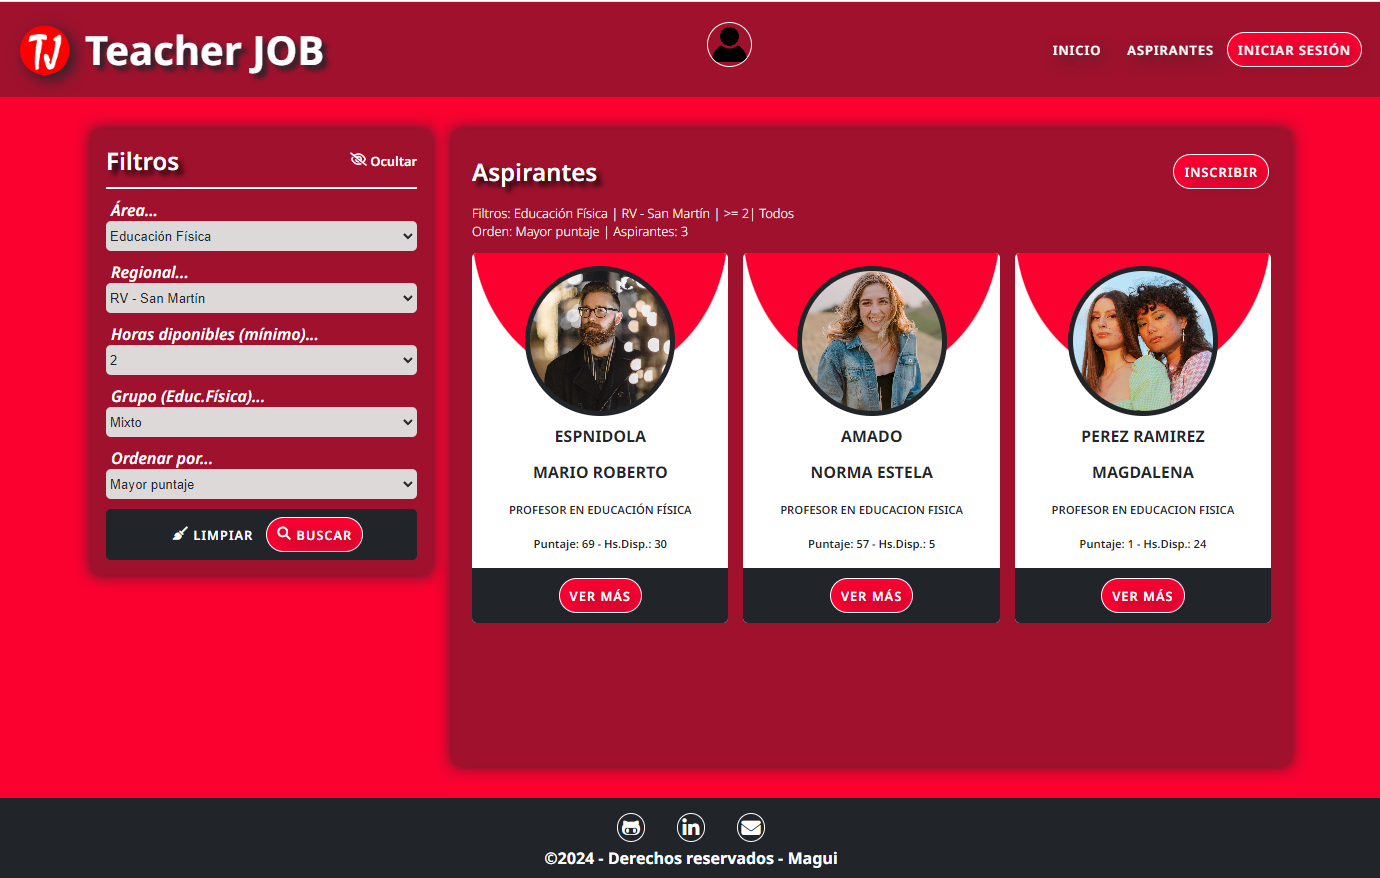
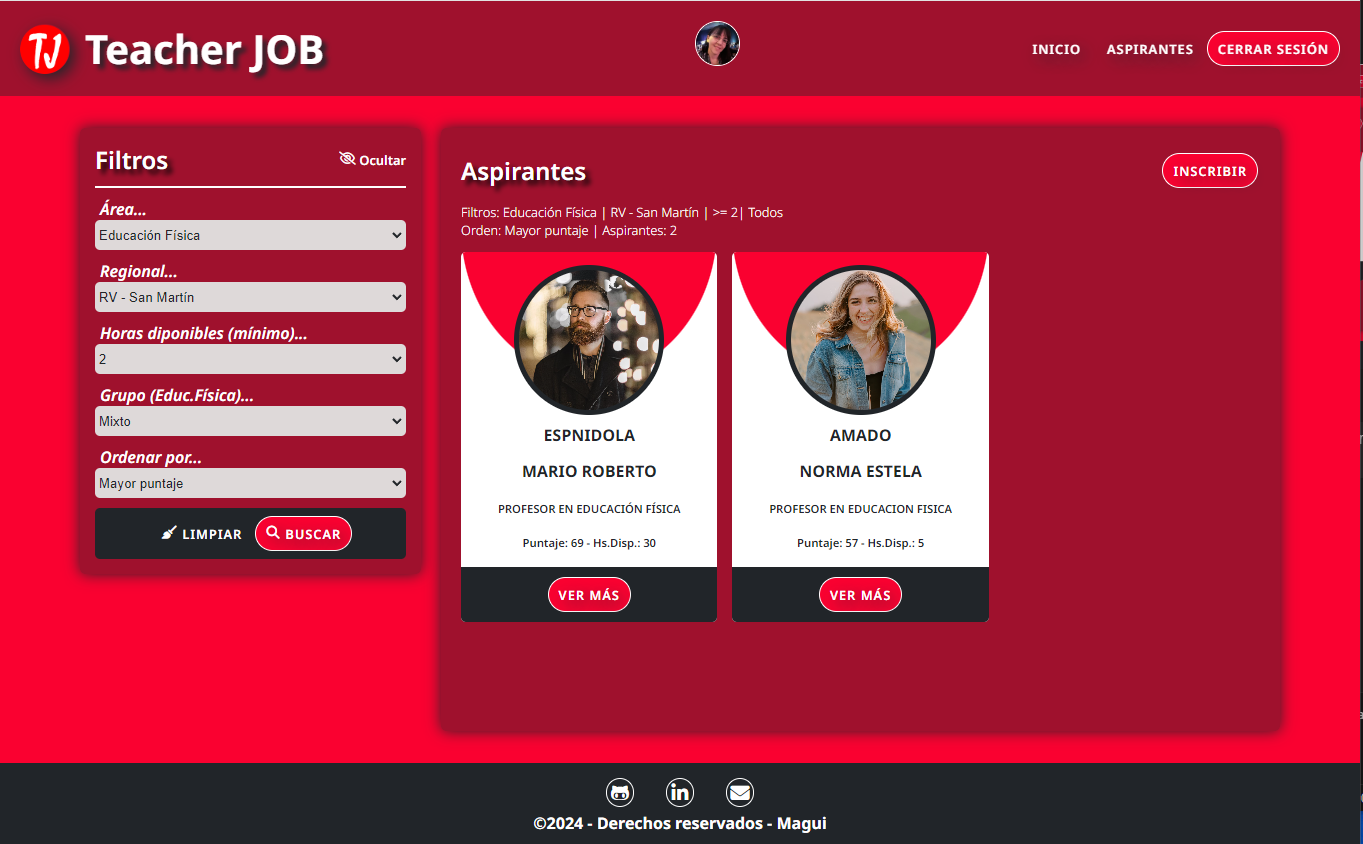
Readme: Primera parte.

Changed region(s): [[0.0, 0.0, 1.0, 0.9858], [0.9861, 0.955, 1.0, 1.0]]

diff --git a/README.md b/README.md
@@ -1,74 +1,231 @@
 <!-- ===========================================================
-                            PRESENTACIÓN 
+                            PRESENTACIÓN
      =========================================================== -->
 
 <p align="center">
-   <img src="imgReadme/tj_br_icon.png" width="100px" alt-text="Título: Teacher JOB">
+   <img src="imgReadme/portadaReadme.png" width="900px" alt-text="Teacher JOB">
 </p>
 
-***
+---
 
 <div align="center">
 
 [![TeacherJOB - link](https://img.shields.io/static/v1?label=teacher+JOB&message=link&color=yellow&logo=EA4335&logoColor=yellow)](https://maguibrollo.github.io/ADA_TeacherJob_mod04_tf/ "Visita la App: Teacher JOB")
-[![GitHub tag](https://img.shields.io/github/tag/MaguiBrollo/ADA_TeacherJob_mod04_tf?include_prereleases=&sort=semver&color=yellow)](https://github.com/MaguiBrollo/ADA_TeacherJob_mod04_tf/releases/ "Versión")
+
+![GitHub Tag](https://img.shields.io/github/v/tag/MaguiBrollo/https%3A%2F%2Fgithub.com%2FMaguiBrollo%2FADA_TeacherJob_mod04_tf)
 
 </div>
 
+---
 
-***
+## Tabla de Contenidos:
 
- ## Tabla de Contenidos:
- 
 - [Teacher JOB](#teacher-job)
 - [Tecnologías](#tecnologías)
-- [Construcción](#construcción)
-- [Menús](#menus)
+- [Menús](#menús)
 - [Mobile](#mobile)
 - [Contáctame](#contáctame)
 
 ---
+
 <br>
 <!-- ==================================================
                          CONTENIDO 
      ================================================== -->
 
-## *Teacher JOB*
+## _Teacher JOB_
 
 [:top:](#tabla-de-contenidos) <br>
 
-> Las aplicaciones web, comúnmente conocidas como apps, se han convertido en una parte esencial de nuestra vida cotidiana. Desde simplificar tareas diarias hasta ofrecer entretenimiento. 
+> Las aplicaciones web, comúnmente conocidas como apps, se han convertido en una parte esencial de nuestra vida cotidiana. Las apps se han consolidado como nuestras aliadas, simplificándonos tareas diarias complejas, como otras no tan complejas como, por ejemplo la búsqueda de empleo. <br> > `Teacher JOB` constituye una herramienta ideal para cruzar de forma efectiva profesores que buscan horas cátedras donde desempeñarse, e instituciones educativas que las ofrecen. Se trata de un espacio en el cual se inscriben a profesores con sus datos más relevantes y los directivos de instituciones pueden consultar esos datos para luego contactar a los profesores.
 
 <p align="center" >
-   <img src="imgReadme/a ppal.png" width="600px" alt-text="Presentación">
+   <img src="imgReadme/a ppal.png" width="500px" alt-text="Presentación">
 </p>
 
-El `Generador de Memes`, fue diseñado de tal manera que puede ser utilizado en diferentes dispositivos, lo que implica un correcto diseño responsive. 
+La aplicación `Teacher JOB`, fue diseñado de tal manera que puede ser utilizado en diferentes dispositivos, lo que implica un correcto diseño responsive.
 
 <p align="center" >
-   <img src="img/aTodos.png" width="600px" alt-text="Presentación">
+   <img src="imgReadme/responsive.png" width="400px" alt-text="Responsive">
 </p>
 
 <br>
 
-Fue desarrollado como Trabajo Final del "Módulo 4 - JavaScript", de la capacitación de `"Desarrollo Frontend"` dictado por [ADA ITW](https://www.linkedin.com/school/ada-itw/), y se encuentra incluido en mi `Portfolio Personal`, de tal manera de reflejar el grado de avance, apropiación y uso de los conocimiento adquiridos y asimilados durante la capacitación.
+Teacher JOB es una app desarrollada como Trabajo Final del "Módulo 4 - Aisncronismo", de la capacitación de `"Desarrollo Frontend"` dictado por [ADA ITW](https://www.linkedin.com/school/ada-itw/), y se encuentra incluido en mi `Portfolio Personal`, de tal manera de reflejar el grado de avance, apropiación y uso de los conocimiento adquiridos y asimilados durante la capacitación.
 
 > [!NOTE]
 > Visite mi portafolio personal: [PORTFOLIO](https://maguibrollo.github.io/ADA_Portafolio_mod01_tf/).
 
-
 <br>
 
-## *Tecnologías*
+## _Tecnologías_
+
 [:top:](#tabla-de-contenidos) <br>
-EL Generador de Memes fue desarrollado utilizando las siguientes tecnologías:  
+Teacher JOB fue se desarrolló utilizando las siguientes tecnologías:
 
 <div align="center">
 
-|  ![HTML5](https://img.shields.io/badge/-HTML5-333333?style=flat&logo=HTML5) |   ![SASS]() |  ![JavaScript](https://img.shields.io/badge/-JavaScript-333333?style=flat&logo=javascript)|  
-| :---: | :---: | :---: |
-|Lenguaje de marcado de hipertexto. Consiste en marcas basado en etiquetas que otorgan la estructura básica de la app.|Sass es un procesador CSS. Permite generar, de manera automática, hojas de estilo, con características que no tiene CSS, y que son propias de los lenguajes de programación. | Lenguaje de programación. Otorga interactividad a las distintas secciones que conforman la app.|
+| [![HTML5](https://img.shields.io/static/v1?label=&message=HTML5&color=%23F8F9FA&logo=html5&logoColor=%23E54C21)](https://) |                           [![Sass](https://img.shields.io/static/v1?label=&message=Sass&color=%23F8F9FA&logo=Sass&logoColor=%23CF649A)](https://)                            | [![JavaScript](https://img.shields.io/static/v1?label=&message=JavaScript&color=%23F8F9FA&logo=javascript&logoColor=yellow)](https://) |
+| :------------------------------------------------------------------------------------------------------------------------: | :--------------------------------------------------------------------------------------------------------------------------------------------------------------------------: | :------------------------------------------------------------------------------------------------------------------------------------: |
+|   Lenguaje de marcado de hipertexto. Consiste en marcas basado en etiquetas que otorgan la estructura básica de la app.    | Sass es un procesador CSS. Permite generar, de manera automática, hojas de estilo, con características que no tiene CSS, y que son propias de los lenguajes de programación. |            Javascript es un lenguaje de programación. Otorga interactividad a las distintas secciones que conforman la app.            |
+
+</div>
 
 <br>
 
+## _Menús_
+
+[:top:](#tabla-de-contenidos) <br>
+
+La aplicación cuenta con los siguientes menúes: [Inicio](#inicio), [Aspirantes](#aspirantes) e [Iniciar sesión](#iniciar-sesión).
+
+### _Inicio:_
+
+---
+
+[:top:](#menús) <br>
+Al iniciar la aplicación, se visualiza un mensaje de bienvenida con un carussel de imágenes alusivas.
+
+<br>
+<p align="center" >
+   <img src="imgReadme/carrusel.gif" width="400px" alt-text="Carrusel">
+</p>
+
+### _Aspirantes:_
+
+---
+
+[:top:](#menús) <br>
+Este menú es el corazón de la aplicación, ya que presenta todas las alternativas de búsqueda de profesores, inscripción, consulta, edición y eliminación de inscripciones. <br>
+En primer lugar, al acceder a este menú se puede ver el listado completo de Aspirantes inscriptos, ordenados por mayor puntaje.
+
+<p align="center" >
+   <img src="imgReadme/aspirantesTodos.png" width="400px" alt-text="Spinner">
+</p>
+
+<br>
+
+En la **sección `Filtros`** los directivos de instituciones pueden filtrar la búsqueda por Área, Regional, Horas, Grupo (para Educación Física) y el Orden por puntaje. Esta sección puede ocultarse y volver a visualizarse. <br>
+Luego de seleccionar las opciones de filtrado se deberá selecionar "Buscar", para dar inicio al proceso de filtrado. Al finalizar el proceso se puede observar, además de las fichas, los datos del filtrado, orden y cantidad. El resultado del filtro de visualiza en la sección Aspirantes.
+
+<br>
+<p align="center" >
+   <img src="imgReadme/aspirantesFiltro.png" width="400px" alt-text="Spinner">
+</p>
+
+<br>
+
+> [!NOTE]
+> Al realizarse una búsqueda o solicitud de visualización, se mostrará un spinner que informa que la app está realizando la tarea solicitada.
+
+<p align="center" >
+   <img src="imgReadme/AspirantesSpinner.png" width="300px" alt-text="Spinner">
+</p>
+
+<br>
+
+En la **sección `Aspirantes`** se visualiza el listado de aspirantes correspondiente al filtro aplicado, además del mensaje que informa el filtro, el orden y el total de aspirantes listados.
+<br>
+
+<p align="center" >
+   <img src="imgReadme/aspirantesTodos.png" width="400px" alt-text="Filtros todos">
+</p>
+
+`Inscripción`: En esta sección también es posible, si se ha iniciado sesión, realizar la inscripción de un nuevo aspirante, completando todos los datos, ya que todos los datos son obligatorios.
+<br>
+
+<p align="center" >
+   <img src="imgReadme/inscripcionNueva.png" width="400px" alt-text="Inscripción">
+</p>
+<br>
+
+---
+
+En la **sección `Ver más`** de cada ficha de cada profesor, es posible visualizar más información del profesor.
+<br>
+
+<p align="center" >
+   <img src="imgReadme/VerMas.png" width="300px" alt-text="Ver más datos de inscripción.">
+</p>
+
+Si se ha iniciado sesión, se podrá acceder a `Editar` y `Borrar`. <br>
+Al seleccionar `Editar`, se puede acceder a la ventana de editar los datos de inscripción del aspirante que se está visualizando. Al desplazar la ventana hacia abajo se observará la edición completa.
+
+<div align="center"  >
+|<img src="imgReadme/VerMasEditar.png" width="250px" alt-text="Editar datos de inscripción del aspirante."> | <img src="imgReadme/VerMasEditar2.png" width="250px" alt-text="Editar datos de inscripción del aspirante."> |
 </div>
+<br>
+Si se ha seleccionado la opción `Borrar`, antes de que se realice la eliminación definitiva, se deberá aceptar la opción correspondiente.
+<br>
+
+<p align="center" >
+   <img src="imgReadme/VerMasBorrar.png" width="300px" alt-text="Eliminar datos de inscripción.">
+</p>
+
+<br>
+
+### _Iniciar Sesión:_
+
+---
+
+[:top:](#menús) <br>
+
+Por medio de este menú es posible iniciar o cerrar sesión. Solo podrán iniciar sesión personal habilitado.
+
+<div align="center"  >
+|<img src="imgReadme/SesionIniciar.png" width="250px" alt-text="Iniciar sesión."> | <img src="imgReadme/SesionCerrar.png" width="250px" alt-text="Cerrar sesión"> |
+</div>
+
+<br>
+
+Si al intentar iniciar sesión, se comete un error en el usuario o contraseña, se informará mediante mensaje.
+
+<p align="center" >
+   <img src="imgReadme/SesionIniciarError.png" width="150px" alt-text="Error de iniciar sesión.">
+</p>
+
+<br>
+
+Al lograr iniciar sesión correctamente, se observará en la parte superior la imagen correspondiete al usuario.
+
+<p align="center" >
+   <img src="imgReadme/SesionIniciada.png" width="600px" alt-text="Sesión iniciada.">
+</p>
+
+<br>
+
+## _Mobile_
+
+[:top:](#tabla-de-contenidos) <br>
+Todas las opciones antes descriptas, se encuentran diposnibles para los diferentes dispositivos móviles.
+
+<div align="center">
+
+|                      Inicio                      |                      Menús                       |
+| :----------------------------------------------: | :----------------------------------------------: |
+| <img src="imgReadme/mobile01.png" width="150px"> | <img src="imgReadme/mobile02.png" width="150px"> |
+
+</div>
+<br>
+
+<div align="center">
+
+|                         Filtros                         |                     Ver mas                      |                      Sesión                      |
+| :-----------------------------------------------------: | :----------------------------------------------: | :----------------------------------------------: |
+| <img src="imgReadme/mobile06Filtros.png" width="150px"> | <img src="imgReadme/mobile04.png" width="150px"> | <img src="imgReadme/mobile03.png" width="150px"> |
+
+</div>
+
+---
+
+## _Contáctame:_
+
+[:top:](#tabla-de-contenidos) <br>
+
+<a href="https://www.linkedin.com/in/magui-brollo/"><img alt="LinkedIn" src="https://img.shields.io/badge/LinkedIn-Magdalena%20Brollo-blue?style=flat-square&logo=linkedin"></a>
+<a href="mailto:maguieb@gmail.com"><img alt="Email" src="https://img.shields.io/badge/Gmail-maguieb@gmail.com-blue?style=flat-square&logo=gmail"></a>
+<a href="https://discord.gg/v7cZYHDz"><img alt="Discord" src="https://img.shields.io/badge/Discord-Magui-blue?style=flat-square&logo=discord"></a>
+
+---
+
+![Profile Views](https://komarev.com/ghpvc/?username=MaguiBrollo&color=yellow "Visitas")
